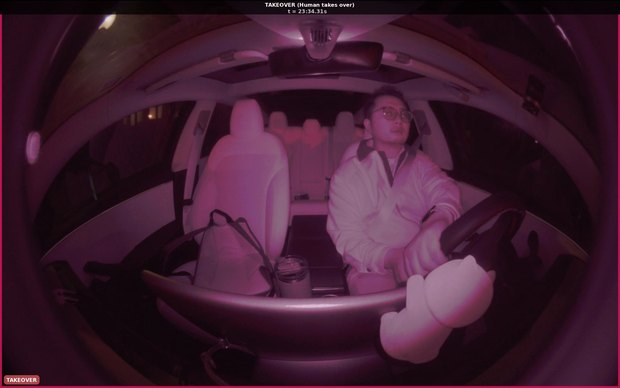
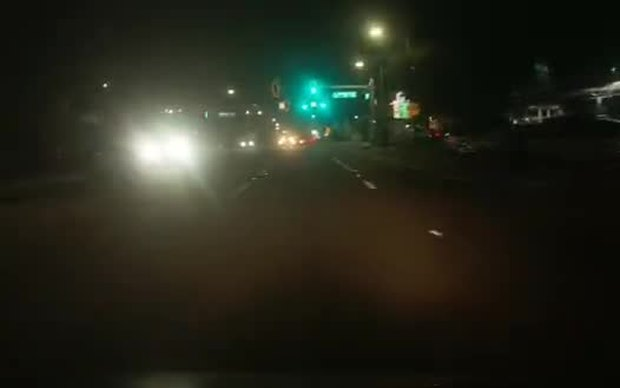
site chrome: venue text + numbers aligned with the five rebuilt pages (home cards, news, projects.md, publications.md preprints section, More-works menus on OpenLKA/VLAlert); th_baton.jpg regenerated from a road frame; cabin allow-list moved out of the repository

diff --git a/index.html b/index.html
@@ -106,7 +106,7 @@
   <div class="tilt-grid">
     <a class="tilt-card reveal" href="/tridrive/">
       <div class="thumb"><img src="/images/th_tridrive.jpg" alt="TriDrive" loading="lazy"></div>
-      <div class="body"><div class="venue">Under review 2026</div><h3>TriDrive</h3>
+      <div class="body"><div class="venue">arXiv 2026 · under review</div><h3>TriDrive</h3>
       <p>Joint driver, vehicle and road modeling for human-centered driving — a world model that forecasts driver kinematics, vehicle dynamics and road demands, running in real time on comma four and validated with 14 drivers on the road.</p></div>
     </a>
     <a class="tilt-card reveal" href="/vlalert/">
@@ -126,18 +126,18 @@
     </a>
     <a class="tilt-card reveal" href="/baton/">
       <div class="thumb"><img src="/images/th_baton.jpg" alt="BATON" loading="lazy"></div>
-      <div class="body"><div class="venue">Preprint 2026</div><h3>BATON</h3>
-      <p>A multimodal benchmark for bidirectional human–automation control transitions: 136.6 h of naturalistic driving with three prediction tasks.</p></div>
+      <div class="body"><div class="venue">arXiv 2026</div><h3>BATON</h3>
+      <p>A multimodal benchmark for bidirectional human–automation control transitions: 781 routes, 173 drivers and 204.9 h of real-world driving-automation use, with takeover scored as detection and as anticipation.</p></div>
     </a>
     <a class="tilt-card reveal" href="/drivedna/">
       <div class="thumb"><img src="/images/th_drivedna.jpg" alt="DriveDNA" loading="lazy"></div>
-      <div class="body"><div class="venue">Preprint 2026</div><h3>DriveDNA</h3>
+      <div class="body"><div class="venue">arXiv 2026</div><h3>DriveDNA</h3>
       <p>Driving-style identification — 4,121 drives from 465 drivers, 975 h — isolating driver-specific behavior from vehicle, route and environment confounds.</p></div>
     </a>
     <a class="tilt-card reveal" href="/drivemotion/">
       <div class="thumb"><img src="/images/th_drivemotion.jpg" alt="DriveMotion" loading="lazy"></div>
-      <div class="body"><div class="venue">Dataset 2026</div><h3>DriveMotion</h3>
-      <p>Driver body-motion forecasting: 400 h of in-cabin skeleton motion (133 keypoints/frame, privacy-reduced) with an 8 s → 4 s prediction task.</p></div>
+      <div class="body"><div class="venue">arXiv 2026</div><h3>DriveMotion</h3>
+      <p>Driver body-motion forecasting: 400 h of in-cabin motion as 133-keypoint skeletons at 10 Hz from 360 drivers and three sources, with a dynamics-anchored forecasting benchmark — released skeleton-only.</p></div>
     </a>
   </div>
 </section>
@@ -180,9 +180,12 @@
   <span class="ghost" data-plx="-0.14" aria-hidden="true"><small>News</small>03</span>
   <h2 class="section-title reveal" data-plx="-0.04">News &amp; Updates</h2>
   <ul class="news-list reveal" data-plx="0.03">
-    <li><span class="nd">Sep 2026</span><p>🚗 New project page: <a href="/tridrive/"><b>TriDrive — Joint Driver, Vehicle, and Road Modeling for Human-Centered Driving</b></a>, a world-model-based driver-monitoring system running in real time on comma four, validated in a 14-participant on-road study. <a href="/tridrive/#demo">[Demo video]</a></p></li>
+    <li><span class="nd">Sep 2026</span><p>🚗 New project page: <a href="/tridrive/"><b>TriDrive — Joint Driver, Vehicle, and Road Modeling for Human-Centered Driving</b></a>, a world-model-based driver-monitoring system running in real time on comma four, validated in a 14-participant on-road study. <a href="/tridrive/#signature">[Explore]</a></p></li>
     <li><span class="nd">Sep 2026</span><p>🎉 <a href="/vlalert/"><b>Observe Before You Alert: Adaptive Driver Alerting with Vision–Language Models</b></a> is accepted by <b>CoRL 2026</b>! <a href="/file/Observe_Before_You_Alert.pdf">[PDF]</a></p></li>
     <li><span class="nd">Aug 2026</span><p>🎉 Three papers accepted by <b>ITSC 2026</b>: <a href="/adasto/"><b>ADAS-TO</b></a>, <b>Cut-In Gap Acceptance Toward Autonomous vs. Human-Driven Vehicles</b>, and <b>A Closed-loop, State-centric, Multi-agent Framework for Passenger Load Estimation</b>.</p></li>
+    <li><span class="nd">Sep 2026</span><p>📦 <a href="/drivemotion/"><b>DriveMotion</b></a> — a multi-source, skeleton-only benchmark for driver motion forecasting (400 h, 360 drivers) — is on <a href="https://arxiv.org/abs/2609.08117">arXiv</a> and <a href="https://huggingface.co/datasets/HenryYHW/DriveMotion">Hugging Face</a>.</p></li>
+    <li><span class="nd">Jul 2026</span><p>🧬 <a href="/drivedna/"><b>DriveDNA</b></a> — driving-style identification without the shortcuts (4,121 drives, 465 drivers, 975 h) — is on <a href="https://arxiv.org/abs/2607.23822">arXiv</a>.</p></li>
+    <li><span class="nd">Apr 2026</span><p>🔁 <a href="/baton/"><b>BATON</b></a> — a multimodal benchmark for bidirectional human–automation control transitions — is on <a href="https://arxiv.org/abs/2604.07263">arXiv</a> (v2, Jul 2026: 781 routes, 173 drivers, 204.9 h).</p></li>
     <li><span class="nd">Oct 2025</span><p>3 papers accepted by TRB Annual Meeting — see you in D.C.!</p></li>
     <li><span class="nd">Jul 2025</span><p><b>From OpenLKA to LKAlert</b> abstract accepted by INFORMS 2025 (Intelligent Transportation Systems and Cybersecurity session), Atlanta.</p></li>
     <li><span class="nd">Jun 2025</span><p><a href="/openlka/"><b>OpenLKA</b></a> is accepted by <b>ITSC 2025</b>.</p></li>

diff --git a/vlalert/index.html b/vlalert/index.html
@@ -109,10 +109,10 @@
     <div class="more-works-dropdown" id="moreWorksDropdown">
       <div class="dropdown-header"><h4>More Works</h4><button class="close-btn" onclick="toggleMoreWorks()"><i class="fas fa-times"></i></button></div>
       <div class="works-list">
-        <a href="/tridrive/" class="work-item"><div class="work-info"><h5>TriDrive</h5><p>Joint driver, vehicle and road modeling for human-centered driving.</p><span class="work-venue">Under review 2026</span></div><i class="fas fa-external-link-alt"></i></a>
+        <a href="/tridrive/" class="work-item"><div class="work-info"><h5>TriDrive</h5><p>Joint driver, vehicle and road modeling for human-centered driving.</p><span class="work-venue">arXiv 2026</span></div><i class="fas fa-external-link-alt"></i></a>
         <a href="/adasto/" class="work-item"><div class="work-info"><h5>ADAS-TO</h5><p>15k+ real-world ADAS takeover events with multimodal signals.</p><span class="work-venue">IEEE ITSC 2026</span></div><i class="fas fa-external-link-alt"></i></a>
         <a href="/openlka/" class="work-item"><div class="work-info"><h5>OpenLKA</h5><p>Open dataset of Lane Keeping Assist from 62 production vehicles.</p><span class="work-venue">IEEE ITSC 2025</span></div><i class="fas fa-external-link-alt"></i></a>
-        <a href="/drivemotion/" class="work-item"><div class="work-info"><h5>DriveMotion</h5><p>Driver body-motion forecasting benchmark.</p><span class="work-venue">Dataset 2026</span></div><i class="fas fa-external-link-alt"></i></a>
+        <a href="/drivemotion/" class="work-item"><div class="work-info"><h5>DriveMotion</h5><p>Driver body-motion forecasting benchmark.</p><span class="work-venue">arXiv 2026</span></div><i class="fas fa-external-link-alt"></i></a>
       </div>
     </div>
   </div>

diff --git a/openlka/index.html b/openlka/index.html
@@ -78,12 +78,12 @@
         <li class="lk-dd">
           <button class="lk-dd__btn" id="lk-more" aria-expanded="false" aria-controls="lk-more-menu">More works <svg class="ic ic-sm" aria-hidden="true"><use href="#i-chevron-down"/></svg></button>
           <ul class="lk-dd__menu" id="lk-more-menu">
-            <li><a href="/adasto/"><b>ADAS-TO</b><span>Takeover clips from the same recordings</span></a></li>
-            <li><a href="/baton/"><b>BATON</b><span>Control-transition benchmark</span></a></li>
-            <li><a href="/drivedna/"><b>DriveDNA</b><span>Driving-style identification</span></a></li>
-            <li><a href="/drivemotion/"><b>DriveMotion</b><span>Driver body-motion forecasting</span></a></li>
-            <li><a href="/vlalert/"><b>VLAlert</b><span>Adaptive driver alerting</span></a></li>
-            <li><a href="/tridrive/"><b>TriDrive</b><span>Driver, vehicle and road world model</span></a></li>
+            <li><a href="/adasto/"><b>ADAS-TO</b><span>Human–ADAS takeover transitions · ITSC 2026</span></a></li>
+            <li><a href="/baton/"><b>BATON</b><span>Bidirectional control transitions · arXiv 2026</span></a></li>
+            <li><a href="/drivedna/"><b>DriveDNA</b><span>Driver re-identification benchmark · arXiv 2026</span></a></li>
+            <li><a href="/drivemotion/"><b>DriveMotion</b><span>Driver body-motion forecasting · arXiv 2026</span></a></li>
+            <li><a href="/vlalert/"><b>VLAlert</b><span>Observe before you alert · CoRL 2026</span></a></li>
+            <li><a href="/tridrive/"><b>TriDrive</b><span>Joint driver–vehicle–road modeling · arXiv 2026</span></a></li>
           </ul>
         </li>
         <li class="lk-site-extra"><a href="/">About</a></li>

diff --git a/tools/projpipe/common.py b/tools/projpipe/common.py
@@ -18,7 +18,14 @@ PATHS = {  # overridable with PROJPIPE_* env vars
 }
 CAPS = {"video_bytes": 2_000_000, "figure_bytes": 350_000, "poster_bytes": 60_000, "lqip_bytes": 500, "json_bytes": 400_000,
         "first_view_bytes": 3_000_000, "total_media_bytes": 25_000_000}
-CABIN_ALLOW = ["530075d26cad58e4"]  # compared at export; never written
+def cabin_allow():
+    """Recorder ids whose cabin pixels may be exported. Kept OUT of the repository: PROJPIPE_CABIN_ALLOW (comma-separated) or
+    the file ~/Desktop/Drive/.projpipe_cabin_allow (one id per line). Compared at export; never written to outputs."""
+    env = os.environ.get("PROJPIPE_CABIN_ALLOW")
+    if env: return [x.strip() for x in env.split(",") if x.strip()]
+    f = os.environ.get("PROJPIPE_CABIN_ALLOW_FILE", os.path.expanduser("~/Desktop/Drive/.projpipe_cabin_allow"))
+    return [l.strip() for l in open(f)] if os.path.exists(f) else []
+CABIN_ALLOW = cabin_allow()
 FORBIDDEN = [
     ("dongle id", re.compile(r"(?<![0-9a-f.])[0-9a-f]{16}(?![0-9a-f])")),  # not after a decimal point (floats)
     ("route id", re.compile(r"[0-9a-f]{8}--[0-9a-f]{10}")),

diff --git a/projects.md b/projects.md
@@ -40,13 +40,13 @@ Below is the full set of projects. Explore more of my work on
   <div class="work-card">
     <a class="thumb" href="/tridrive/"><img src="/images/th_tridrive.jpg" alt="TriDrive"></a>
     <div class="body">
-      <div class="venue">arXiv preprint 2026</div>
+      <div class="venue">arXiv 2026 · under review</div>
       <h3><a href="/tridrive/">TriDrive</a></h3>
       <p class="blurb">Joint driver, vehicle and road modeling for human-centered driving: a world-model-based driver-monitoring system that forecasts driver kinematics, vehicle dynamics and road demands, deployed in real time on comma four and validated in a 14-participant on-road study.</p>
       <div class="badges">
         <a class="primary" href="/tridrive/">Project Page →</a>
         <a href="https://arxiv.org/abs/2609.33000" target="_blank">arXiv</a>
-        <a href="/tridrive/#demo">Demo Video</a>
+        <a href="/tridrive/#signature">Explore</a>
         <a href="https://huggingface.co/HenryYHW/TriDrive" target="_blank">🤗 Code &amp; Models</a>
       </div>
     </div>
@@ -85,9 +85,9 @@ Below is the full set of projects. Explore more of my work on
   <div class="work-card">
     <a class="thumb" href="/baton/"><img src="/images/th_baton.jpg" alt="BATON"></a>
     <div class="body">
-      <div class="venue">Preprint 2026</div>
+      <div class="venue">arXiv 2026</div>
       <h3><a href="/baton/">BATON</a></h3>
-      <p class="blurb">A multimodal benchmark for bidirectional human–automation control transitions: 136.6 h of naturalistic driving with video, CAN, radar and GPS, and three prediction tasks.</p>
+      <p class="blurb">A multimodal benchmark for bidirectional human–automation control transitions: 781 routes, 173 drivers and 204.9 h of real-world driving-automation use with front and cabin video, CAN, radar and route context; takeover scored as detection (T3-D) and as anticipation (T3-A).</p>
       <div class="badges">
         <a class="primary" href="/baton/">Project Page →</a>
         <a href="https://arxiv.org/abs/2604.07263" target="_blank">arXiv</a>
@@ -100,12 +100,12 @@ Below is the full set of projects. Explore more of my work on
   <div class="work-card">
     <a class="thumb" href="/drivedna/"><img src="/images/th_drivedna.jpg" alt="DriveDNA"></a>
     <div class="body">
-      <div class="venue">Preprint 2026</div>
+      <div class="venue">arXiv 2026</div>
       <h3><a href="/drivedna/">DriveDNA</a></h3>
       <p class="blurb">A benchmark for driving-style identification — 4,121 drives from 465 drivers, 975 h — that isolates driver-specific behavior from vehicle, route and environment confounds.</p>
       <div class="badges">
         <a class="primary" href="/drivedna/">Project Page →</a>
-        <a href="https://huggingface.co/papers/2607.23822" target="_blank">Paper</a>
+        <a href="https://arxiv.org/abs/2607.23822" target="_blank">arXiv</a>
         <a href="https://github.com/WangYuHang-cmd/DriveDNA" target="_blank">GitHub</a>
         <a href="https://huggingface.co/datasets/HenryYHW/DriveDNA" target="_blank">🤗 Data</a>
       </div>
@@ -115,9 +115,9 @@ Below is the full set of projects. Explore more of my work on
   <div class="work-card">
     <a class="thumb" href="/drivemotion/"><img src="/images/th_drivemotion.jpg" alt="DriveMotion"></a>
     <div class="body">
-      <div class="venue">Dataset 2026</div>
+      <div class="venue">arXiv 2026</div>
       <h3><a href="/drivemotion/">DriveMotion</a></h3>
-      <p class="blurb">A multi-source benchmark for driver body-motion forecasting: 400 h of in-cabin skeleton motion (133 keypoints/frame, privacy-reduced) with an 8 s → 4 s prediction task.</p>
+      <p class="blurb">A multi-source, skeleton-only benchmark for driver motion forecasting: 400 h of in-cabin motion as 133-keypoint skeletons at 10 Hz from 360 drivers (fleet, web, AIDE), anchored on real manoeuvres.</p>
       <div class="badges">
         <a class="primary" href="/drivemotion/">Project Page →</a>
         <a href="https://arxiv.org/abs/2609.08117" target="_blank">arXiv</a>

diff --git a/publications.md b/publications.md
@@ -4,9 +4,19 @@ permalink: /publications/index.html
 title: Publications
 ---
 
-> Update: 26th September 2026
+> Update: 2nd October 2026
 >
 > (†: equal contribution, ~: corresponding author)
+
+## Preprints
+
+- [TriDrive: Joint Driver, Vehicle, and Road Modeling for Forecasting and Driver Monitoring](/tridrive/)<br>Yuhang Wang, Jingxin Yang, Chuheng Wei, Yuechen Guo, Jinghan Xu, Zhao Han, Hao Zhou<br>arXiv 2609.33000, September 2026. Under review. [[arXiv]](https://arxiv.org/abs/2609.33000) [[Model]](https://huggingface.co/HenryYHW/TriDrive)<br>
+
+- [DriveMotion: A Large-Scale Multi-Source Benchmark for Driver Motion Sequence Modeling and Forecasting](/drivemotion/)<br>Yuhang Wang, Chuheng Wei, Jingxin Yang, Xishun Liao, Hao Zhou<br>arXiv 2609.08117, September 2026. [[arXiv]](https://arxiv.org/abs/2609.08117) [[Data]](https://huggingface.co/datasets/HenryYHW/DriveMotion)<br>
+
+- [DriveDNA: A Large-Scale Multimodal Naturalistic Driving Dataset and Benchmark for Driving Style Identification](/drivedna/)<br>Yuhang Wang, Lingyao Li, Hao Zhou<br>arXiv 2607.23822, July 2026. [[arXiv]](https://arxiv.org/abs/2607.23822) [[Data]](https://huggingface.co/datasets/HenryYHW/DriveDNA)<br>
+
+- [BATON: A Multimodal Benchmark for Bidirectional Automation Transition Observation in Naturalistic Driving](/baton/)<br>Yuhang Wang, Yiyao Xu, Chaoyun Yang, Lingyao Li, Jingran Sun, Hao Zhou<br>arXiv 2604.07263 (v2, July 2026). [[arXiv]](https://arxiv.org/abs/2604.07263) [[Data]](https://huggingface.co/datasets/HenryYHW/BATON)<br>
 
 ## Conference Paper
 
